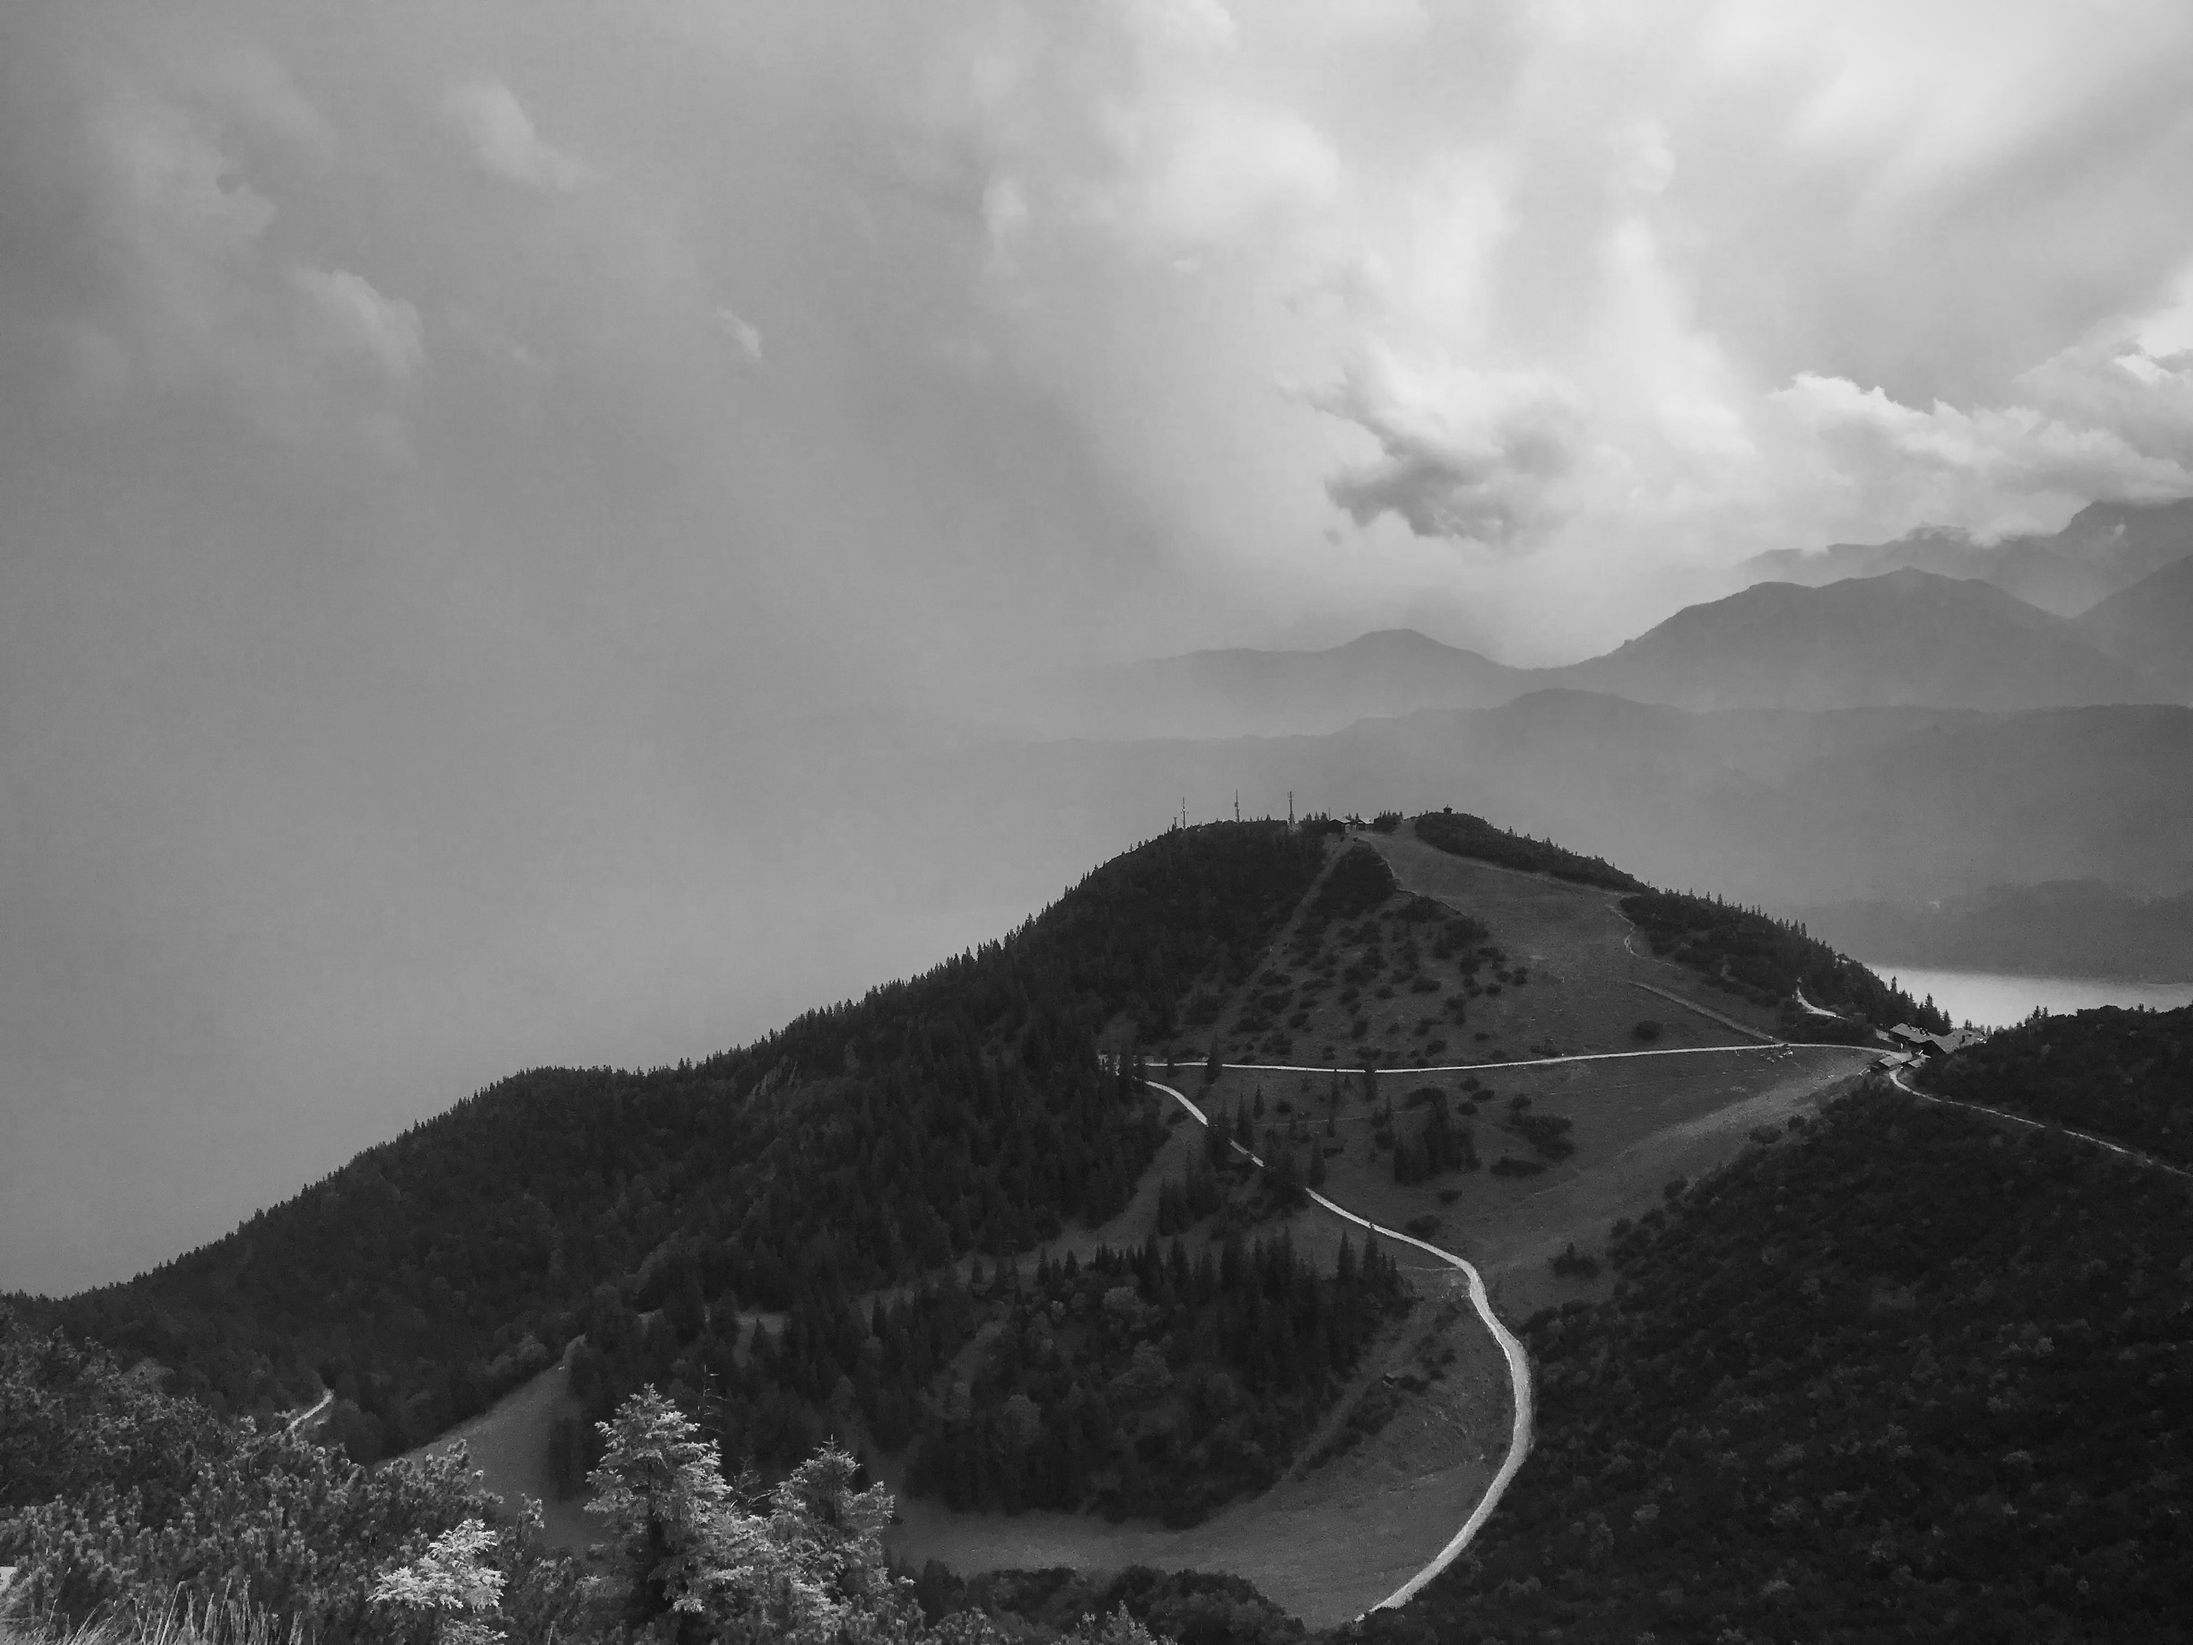
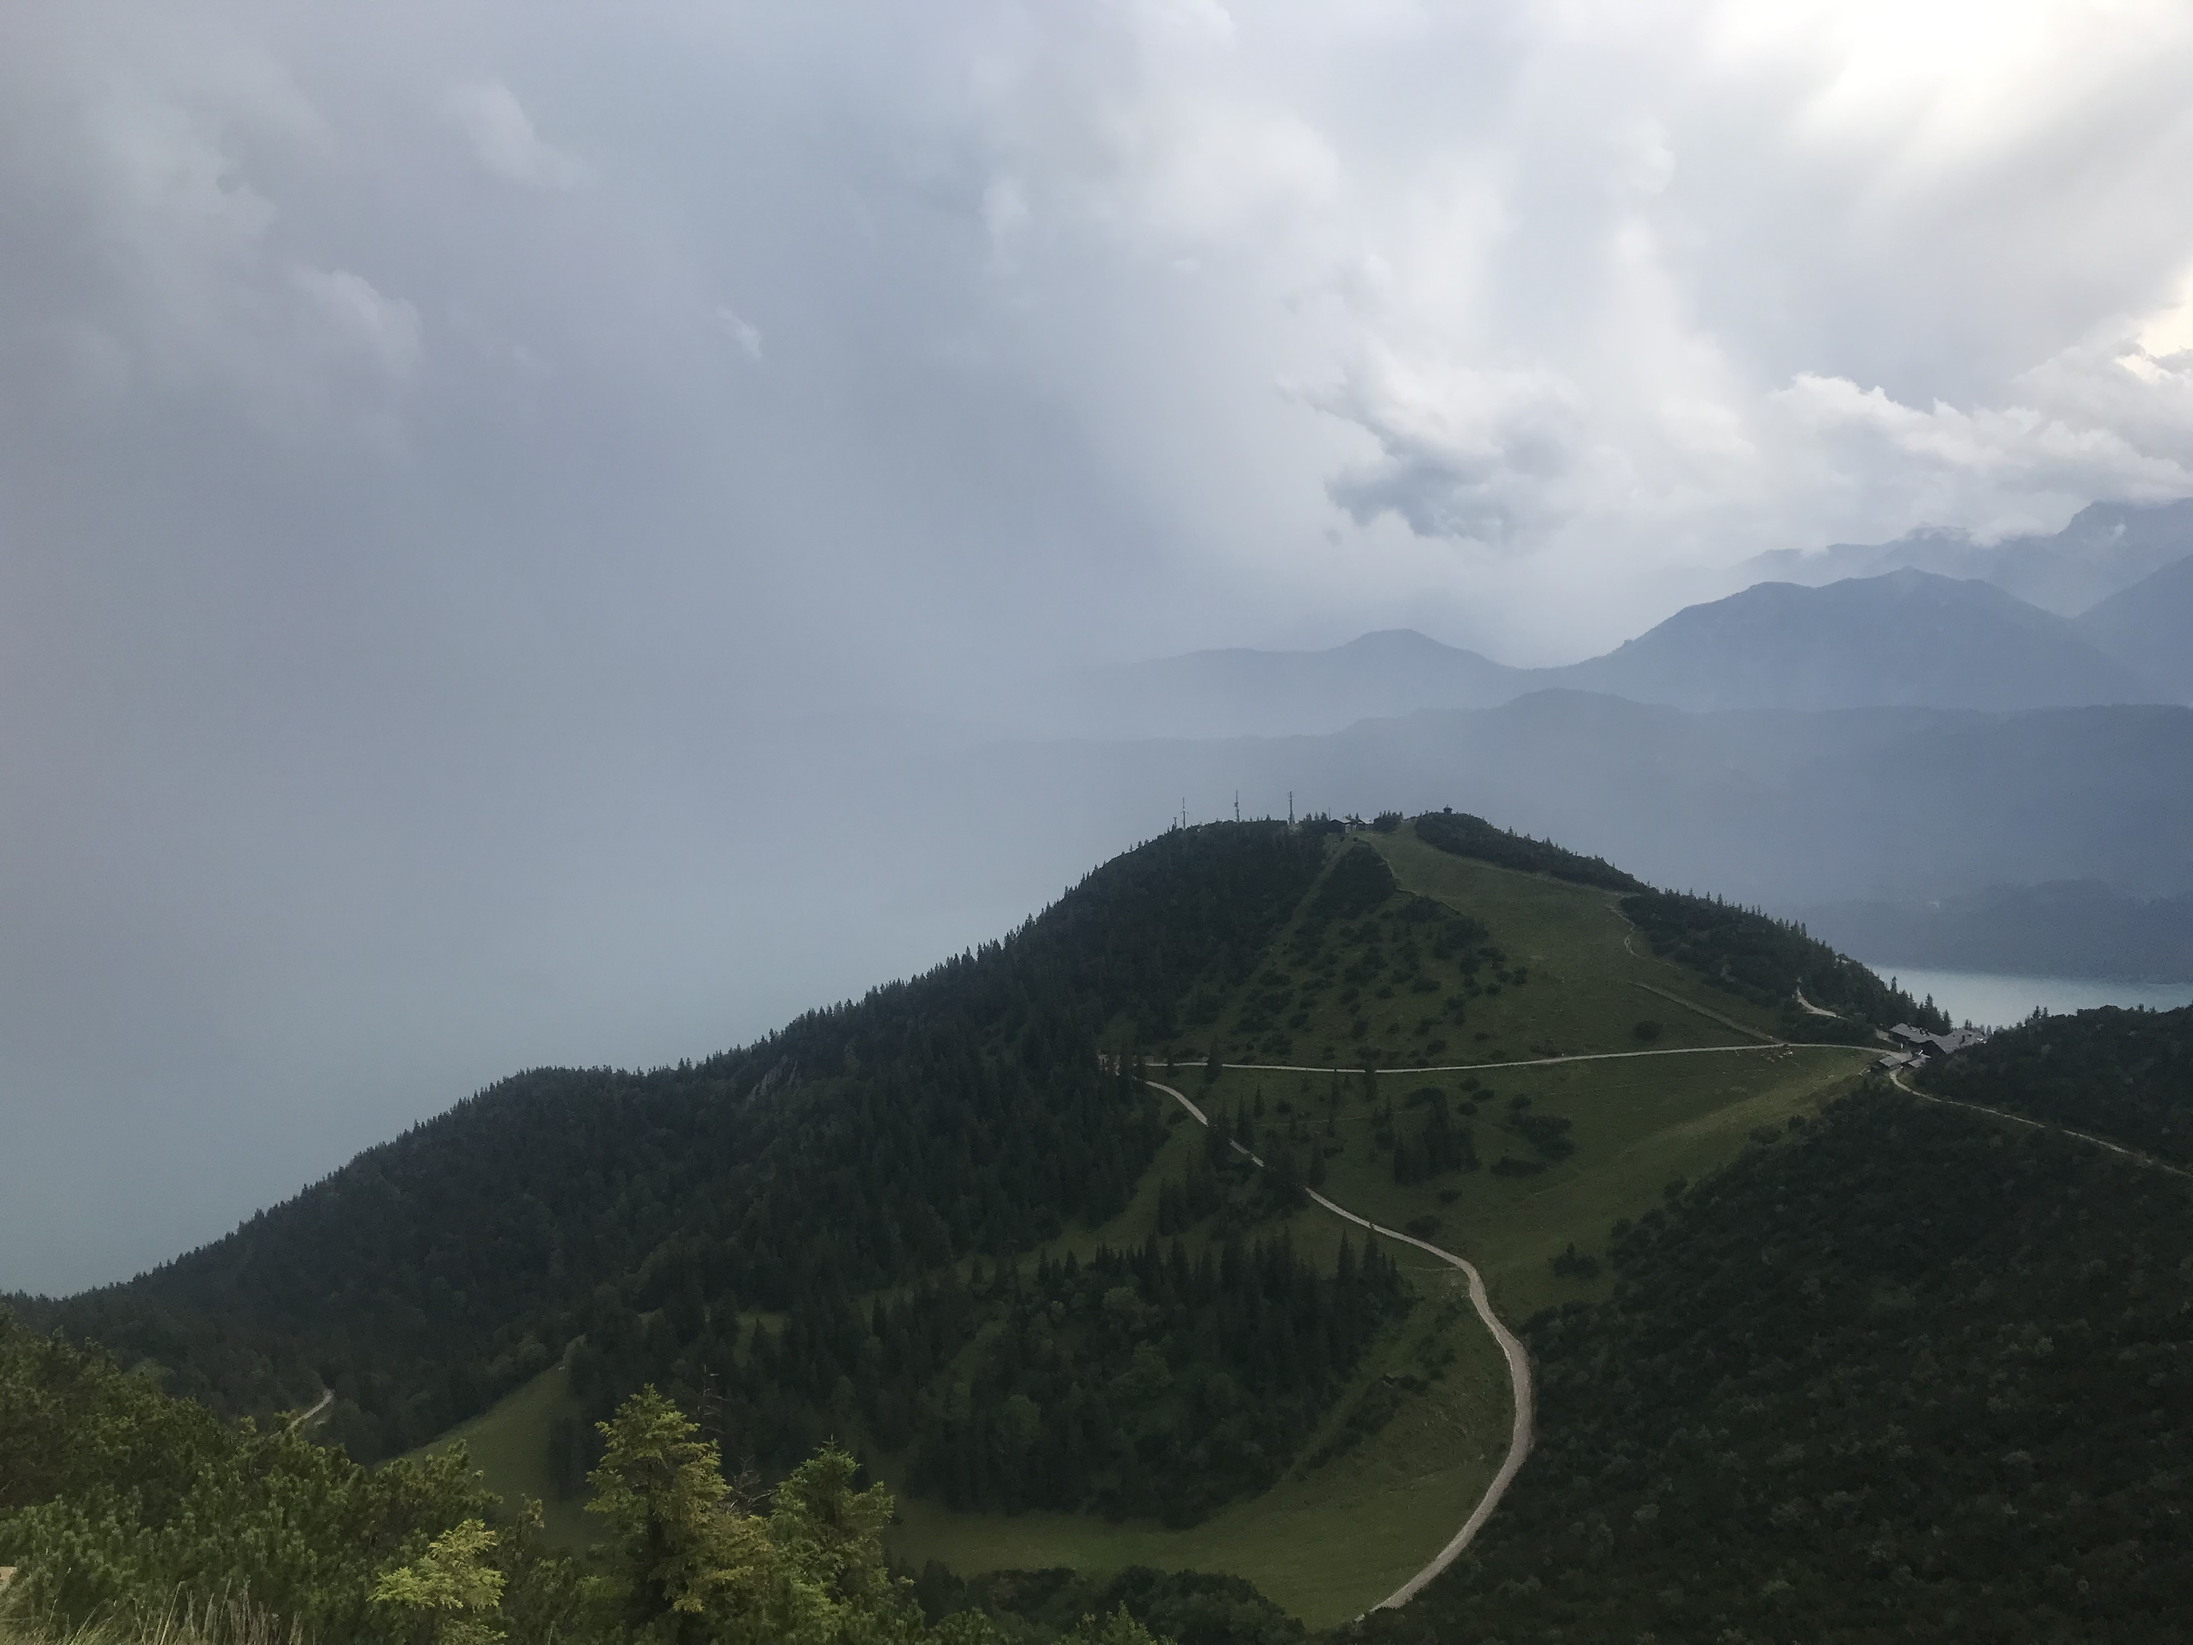
Barevna_galerie

diff --git a/bezpozvanky.html b/bezpozvanky.html
@@ -464,7 +464,7 @@
 		</div>
 	</div>
 	<!-- GALERIE -->
-	 <!-- GALERIE_SVATBA
+	  GALERIE_SVATBA
 	<div class="section" style="margin-top: -15px">
 		<div class="container">
 			<div class="vykryti-bila">
@@ -474,7 +474,7 @@
 					</div>
 					<div class="col-md-12">
 						<div class="image-grid">
-							<a class="gallery-item" href="style/instax_nastavajici.jpg"><img src="style/instax_nastavajici.jpg" alt="Skupinove foto instax"></a>
+							<a class="gallery-item" href="style/budouci_instax_barevna.jpg"><img src="style/budouci_instax_barevna.jpg" alt="Skupinove foto instax"></a>
 						</div>
 					</div>
 				</div>				
@@ -484,7 +484,7 @@
 					</div>
 					<div class="col-md-12">
 						<div class="image-grid">
-							<a class="gallery-item" href="style/Jar_Luk_Jon_cb_5_1_2025.jpg"><img src="style/Jar_Luk_Jon_cb_5_1_2025.jpg" alt="Skupinove foto instax"></a>
+							<a class="gallery-item" href="style/Jonas_skupinka_2r.JPG"><img src="style/Jonas_skupinka_2r.JPG" alt="Skupinove foto instax"></a>
 						</div>
 					</div>
 				</div>
@@ -531,7 +531,7 @@
 						</div>
 					</div>
 				</div>
-				-->
+				
 
 				<!-- 
 				<div class="row">
